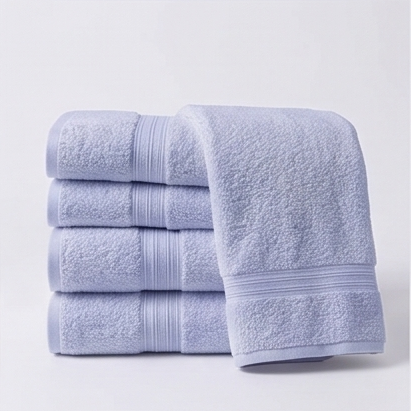
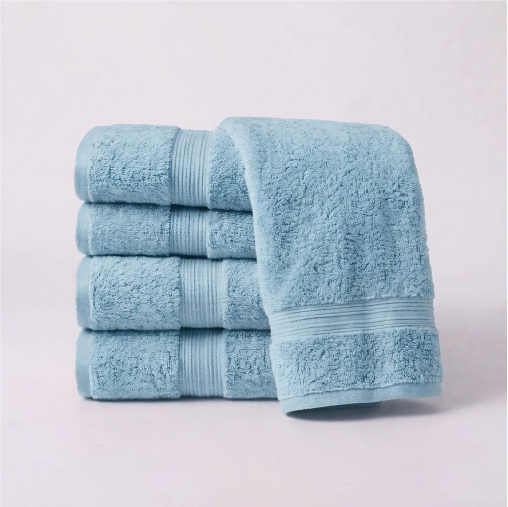
Imagenes colores favoritos listos

diff --git a/app.js b/app.js
@@ -315,8 +315,6 @@ function renderProducts(skipAnim = false) {
 
 function renderCardHTML(p) {
     const qty = Store.getQuantity(p.id);
-    const lab = (p.laboratory || '').trim().toLowerCase();
-    const badgeColor = lab === 'san jacinto' ? '#FFC635' : '#DDA107';
     
     return `
         <article class="product-card">
@@ -328,7 +326,7 @@ function renderCardHTML(p) {
                 ${p.offers.length > 0 ? `<span class="card-tag">${p.offers[0]}</span>` : ''}
             </div>
             <div class="card-info">
-                 <span class="card-articulo" style="background-color: ${badgeColor};">${p.articulo}</span>
+                 <span class="card-articulo">${p.articulo}</span>
                  <a href="${fixPath('producto.html')}?id=${p.id}" class="card-name-link">
                     <h6 class="card-name">${p.name}</h6>
                     <span class="card-brand">${p.laboratory}</span>
@@ -354,6 +352,42 @@ function renderCardHTML(p) {
         </article>`;
 }
 
+window.changeProductImage = function(src, thumbElement) {
+    const mainImg = document.getElementById('mainProductImg');
+    if (!mainImg) return;
+    mainImg.style.transition = 'opacity 0.2s ease-in-out';
+    mainImg.style.opacity = '0';
+    setTimeout(() => {
+        mainImg.src = src;
+        mainImg.style.opacity = '1';
+    }, 200);
+    
+    // Update active class on thumbnails
+    const thumbnails = thumbElement.parentNode.querySelectorAll('.detail-thumb');
+    thumbnails.forEach(t => t.classList.remove('active'));
+    thumbElement.classList.add('active');
+};
+
+window.nextProductImage = function(btnElement) {
+    const gallery = btnElement.closest('.product-gallery');
+    if (!gallery) return;
+    const thumbs = Array.from(gallery.querySelectorAll('.detail-thumb'));
+    if (thumbs.length <= 1) return;
+    const activeIndex = thumbs.findIndex(t => t.classList.contains('active'));
+    const nextIndex = (activeIndex + 1) % thumbs.length;
+    thumbs[nextIndex].click();
+};
+
+window.prevProductImage = function(btnElement) {
+    const gallery = btnElement.closest('.product-gallery');
+    if (!gallery) return;
+    const thumbs = Array.from(gallery.querySelectorAll('.detail-thumb'));
+    if (thumbs.length <= 1) return;
+    const activeIndex = thumbs.findIndex(t => t.classList.contains('active'));
+    const prevIndex = (activeIndex - 1 + thumbs.length) % thumbs.length;
+    thumbs[prevIndex].click();
+};
+
 function renderProductDetail(id) {
     const detail = document.getElementById('productDetail');
     if (!detail) return;
@@ -367,7 +401,25 @@ function renderProductDetail(id) {
 
     detail.innerHTML = `
         <div class="product-detail-container">
-            <div class="product-detail-img"><img src="${fixPath(p.image)}"></div>
+            <div class="product-gallery">
+                <div class="product-detail-img">
+                    <button class="gallery-nav-btn prev-btn" onclick="window.prevProductImage(this)">
+                        <svg xmlns="http://www.w3.org/2000/svg" viewBox="0 0 24 24" fill="none" stroke="currentColor" stroke-width="2.5" stroke-linecap="round" stroke-linejoin="round"><polyline points="15 18 9 12 15 6"></polyline></svg>
+                    </button>
+                    <img id="mainProductImg" src="${fixPath(p.image)}" style="transition: opacity 0.2s ease-in-out;">
+                    <button class="gallery-nav-btn next-btn" onclick="window.nextProductImage(this)">
+                        <svg xmlns="http://www.w3.org/2000/svg" viewBox="0 0 24 24" fill="none" stroke="currentColor" stroke-width="2.5" stroke-linecap="round" stroke-linejoin="round"><polyline points="9 18 15 12 9 6"></polyline></svg>
+                    </button>
+                </div>
+                <div class="detail-thumbnails">
+                    <div class="detail-thumb active" onclick="window.changeProductImage('${fixPath(p.image)}', this)">
+                        <img src="${fixPath(p.image)}">
+                    </div>
+                    <div class="detail-thumb" onclick="window.changeProductImage('${fixPath(p.image2)}', this)">
+                        <img src="${fixPath(p.image2)}">
+                    </div>
+                </div>
+            </div>
             <div class="product-detail-info">
                 <h1 style="margin-bottom: 5px;">${p.name}</h1>
                 <div class="detail-subtitle" style="font-size: 1.1rem; color: var(--secondary-text); margin-bottom: 10px; font-weight: 500;">${p.laboratory} | ${p.category}</div>
@@ -412,7 +464,7 @@ function renderProductDetail(id) {
                         ${relatedColors.map(rc => `
                             <a href="${fixPath('producto.html')}?id=${rc.id}" class="mini-card" style="text-decoration: none; color: inherit; width: calc(12.5% - 16px); min-width: 110px; background: var(--white); border: 1px solid var(--medium-gray); border-radius: 12px; overflow: hidden; transition: all 0.3s ease; box-shadow: 0 2px 8px rgba(0,0,0,0.05); display: block;">
                                 <div class="mini-card-img" style="height: 90px; background: var(--light-gray); display: flex; align-items: center; justify-content: center; padding: 10px;">
-                                    <img src="${fixPath(rc.image)}" style="max-height: 100%; max-width: 100%; object-fit: contain; transition: transform 0.3s ease;">
+                                    <img src="${fixPath(rc.image2 || rc.image)}" style="max-height: 100%; max-width: 100%; object-fit: contain; transition: transform 0.3s ease;">
                                 </div>
                                 <div class="mini-card-info" style="padding: 10px; text-align: center;">
                                     <div style="font-size: 0.8rem; font-weight: 600; white-space: nowrap; overflow: hidden; text-overflow: ellipsis;">${rc.colorCode} ${rc.colores[0]}</div>
@@ -523,8 +575,17 @@ function setupEventListeners() {
 
         // Favorites
         if (target.closest('.favorite-btn')) {
+            const btn = target.closest('.favorite-btn');
             const p = initialProducts.find(prod => prod.id === id);
             p.isFavorite = !p.isFavorite;
+            
+            // Toggle active class and SVG fill on the clicked button
+            btn.classList.toggle('active', p.isFavorite);
+            const svg = btn.querySelector('svg');
+            if (svg) {
+                svg.setAttribute('fill', p.isFavorite ? 'currentColor' : 'none');
+            }
+
             const h = document.getElementById('headerHeart');
             if (h) { 
                 h.classList.remove('anim-heartbeat'); 
@@ -533,7 +594,12 @@ function setupEventListeners() {
                 h.style.fill = p.isFavorite ? 'var(--heart-red)' : 'none'; 
                 h.style.color = p.isFavorite ? 'var(--heart-red)' : 'inherit'; 
             }
-            Store.notify();
+
+            if (activeFilters.onlyFavorites) {
+                renderProducts(true); // Re-render without entry animation to remove the unfavorited item
+            } else {
+                Store.notify();
+            }
         } 
         // Add to Cart
         if (e.target.closest('.add-btn')) {

diff --git a/producto.html b/producto.html
@@ -25,7 +25,7 @@
         .product-detail-img img {
             width: 100%;
             height: 100%;
-            object-fit: contain;
+            object-fit: cover;
             mix-blend-mode: multiply;
         }
 
@@ -72,6 +72,108 @@
 
         .back-link:hover {
             color: var(--primary-text);
+        }
+
+        .product-gallery {
+            display: flex;
+            flex-direction: column;
+            gap: 16px;
+        }
+
+        .product-detail-img {
+            position: relative;
+            width: 100%;
+            aspect-ratio: 1;
+            background: var(--light-gray);
+            border-radius: var(--radius-card);
+            overflow: hidden;
+            border: 1px solid var(--medium-gray);
+        }
+
+        .detail-thumbnails {
+            display: flex;
+            gap: 12px;
+        }
+
+        .detail-thumb {
+            width: 80px;
+            height: 80px;
+            background: var(--light-gray);
+            border-radius: 12px;
+            border: 2px solid transparent;
+            cursor: pointer;
+            overflow: hidden;
+            transition: var(--transition);
+            display: flex;
+            align-items: center;
+            justify-content: center;
+            padding: 4px;
+        }
+
+        .detail-thumb.active {
+            border-color: var(--primary);
+            background: var(--white);
+            box-shadow: 0 4px 12px rgba(255, 198, 53, 0.2);
+        }
+
+        .detail-thumb img {
+            width: 100%;
+            height: 100%;
+            object-fit: cover;
+            mix-blend-mode: multiply;
+        }
+
+        .detail-thumb:hover {
+            border-color: var(--primary);
+            transform: translateY(-2px);
+        }
+
+        .gallery-nav-btn {
+            position: absolute;
+            top: 50%;
+            transform: translateY(-50%) scale(0.9);
+            background: none;
+            border: none;
+            display: flex;
+            align-items: center;
+            justify-content: center;
+            cursor: pointer;
+            color: #ffffff;
+            opacity: 0;
+            pointer-events: none;
+            transition: opacity 0.2s, color 0.2s, transform 0.2s;
+            z-index: 10;
+            padding: 10px;
+            filter: drop-shadow(0px 2px 4px rgba(0, 0, 0, 0.35));
+        }
+
+        .gallery-nav-btn:hover {
+            color: #ffffff;
+            transform: translateY(-50%) scale(1.1);
+        }
+
+        .gallery-nav-btn.prev-btn {
+            left: 12px;
+        }
+
+        .gallery-nav-btn.next-btn {
+            right: 12px;
+        }
+
+        .product-detail-img:hover .gallery-nav-btn {
+            opacity: 1;
+            pointer-events: auto;
+            transform: translateY(-50%) scale(1);
+        }
+
+        .gallery-nav-btn svg {
+            width: 28px;
+            height: 28px;
+            transition: transform 0.2s;
+        }
+
+        .gallery-nav-btn:active svg {
+            transform: scale(0.85);
         }
 
         @media (max-width: 768px) {

diff --git a/data.js b/data.js
@@ -58,8 +58,8 @@ const colorImages = {
     "Azul Colombia": "./TOALLAS COLORES/AZUL COLOMBIA.png",
     "Beige": "./TOALLAS COLORES/BEIGE.png",
     "Celeste Fox": "./TOALLAS COLORES/CELESTE FOX.png",
-    "Verde Laurel": "./TOALLAS COLORES/Mesa de trabajo 9.png",
-    "Acero": "./TOALLAS COLORES/Mesa de trabajo 10.png",
+    "Verde Laurel": "./TOALLAS COLORES/VERDE LAUREL.png",
+    "Acero": "./TOALLAS COLORES/ACERO.png",
     "Lila": "./TOALLAS COLORES/LILA.png",
     "Fresa": "./TOALLAS COLORES/FRESA.png",
     "Tierra": "./TOALLAS COLORES/TIERRA.png",
@@ -69,6 +69,28 @@ const colorImages = {
     "Guinda TX": "./TOALLAS COLORES/GUINDA TX.png",
     "Purpura": "./TOALLAS COLORES/PURPURA.png",
     "Verde Oscuro": "./TOALLAS COLORES/VERDE OSCURO.png"
+};
+
+const colorImagesPeque = {
+    "Blanco": "./TOALLAS COLORES PEQUE/BLANCO.png",
+    "Negro": "./TOALLAS COLORES PEQUE/NEGRO.png",
+    "Azul": "./TOALLAS COLORES PEQUE/AZUL.png",
+    "Plomo": "./TOALLAS COLORES PEQUE/PLOMO.png",
+    "Crema": "./TOALLAS COLORES PEQUE/CREMA.png",
+    "Azul Colombia": "./TOALLAS COLORES PEQUE/AZUL COLOMBIA.png",
+    "Beige": "./TOALLAS COLORES PEQUE/BEIGE.png",
+    "Celeste Fox": "./TOALLAS COLORES PEQUE/CELESTE FOX.png",
+    "Verde Laurel": "./TOALLAS COLORES PEQUE/VERDE LAUREL.png",
+    "Acero": "./TOALLAS COLORES PEQUE/ACERO.png",
+    "Lila": "./TOALLAS COLORES PEQUE/LILA.png",
+    "Fresa": "./TOALLAS COLORES PEQUE/FRESA.png",
+    "Tierra": "./TOALLAS COLORES PEQUE/TIERRA.png",
+    "Rosa Fuerte": "./TOALLAS COLORES PEQUE/ROSA FUERTE.png",
+    "Cocona": "./TOALLAS COLORES PEQUE/COCONA.png",
+    "Fucsia": "./TOALLAS COLORES PEQUE/Fucsia.png",
+    "Guinda TX": "./TOALLAS COLORES PEQUE/GUINDA TX.png",
+    "Purpura": "./TOALLAS COLORES PEQUE/PURPURA.png",
+    "Verde Oscuro": "./TOALLAS COLORES PEQUE/VERDE OSCURO.png"
 };
 
 let products = [];
@@ -96,11 +118,13 @@ baseProducts.forEach(base => {
             stock_unidades: stockUnits,
             stock_paquetes: stockPacks,
             image: colorImages[color] || "./assets/product.png",
+            image2: colorImagesPeque[color] || "./assets/product.png",
             isFavorite: Math.random() > 0.9,
             offers: Math.random() > 0.8 ? ["Día de la Madre"] : (Math.random() > 0.9 ? ["25% de descuento"] : [])
         });
     });
 });
+
 
 
 products.shift(); // Borra el primer producto de la lista ("Toalla Belleza 150x75 - Blanco")

diff --git a/components.html b/components.html
@@ -181,7 +181,7 @@
                             <span class="card-tag">Día de la Madre</span>
                         </div>
                         <div class="card-info">
-                             <span class="card-articulo" style="background-color: #FFC635;">7015</span>
+                             <span class="card-articulo">7015</span>
                              <a href="#" class="card-name-link">
                                 <h6 class="card-name">Toalla Belleza 150 × 75 - Blanco</h6>
                                 <span class="card-brand">San Jacinto</span>

diff --git a/styles.css b/styles.css
@@ -545,10 +545,8 @@ main.product-page-main {
     display: inline-block;
     align-self: flex-start;
     font-weight: 700;
-    font-size: 0.75rem;
-    padding: 3px 8px;
-    border-radius: 4px;
-    color: #111;
+    font-size: 0.8rem;
+    color: #e67e22; /* Readable Orange */
     margin-bottom: 4px;
 }
 
